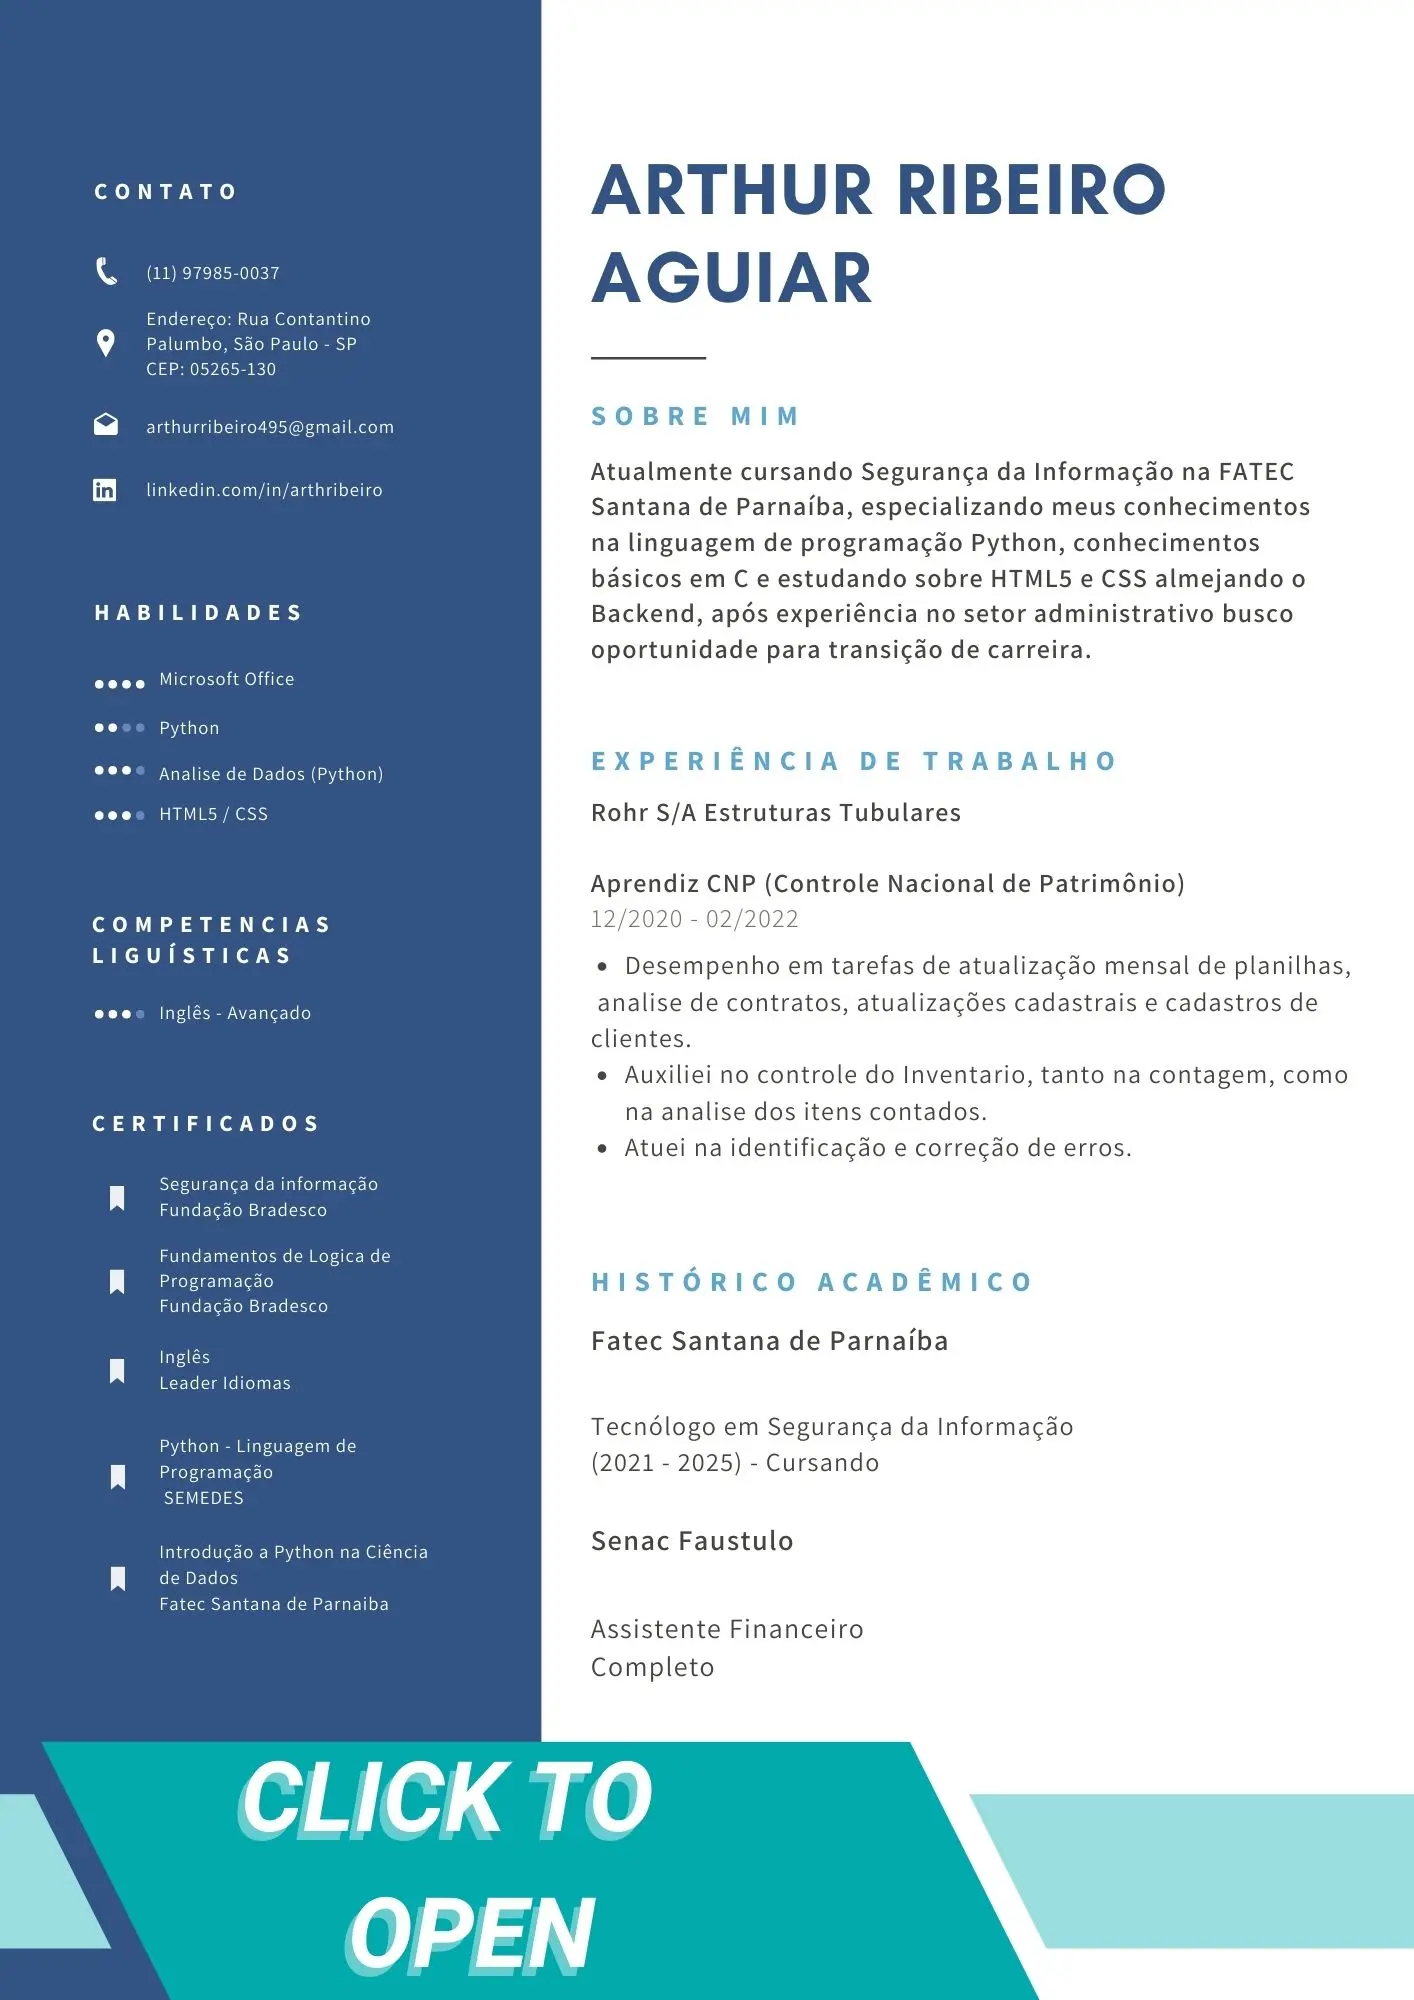
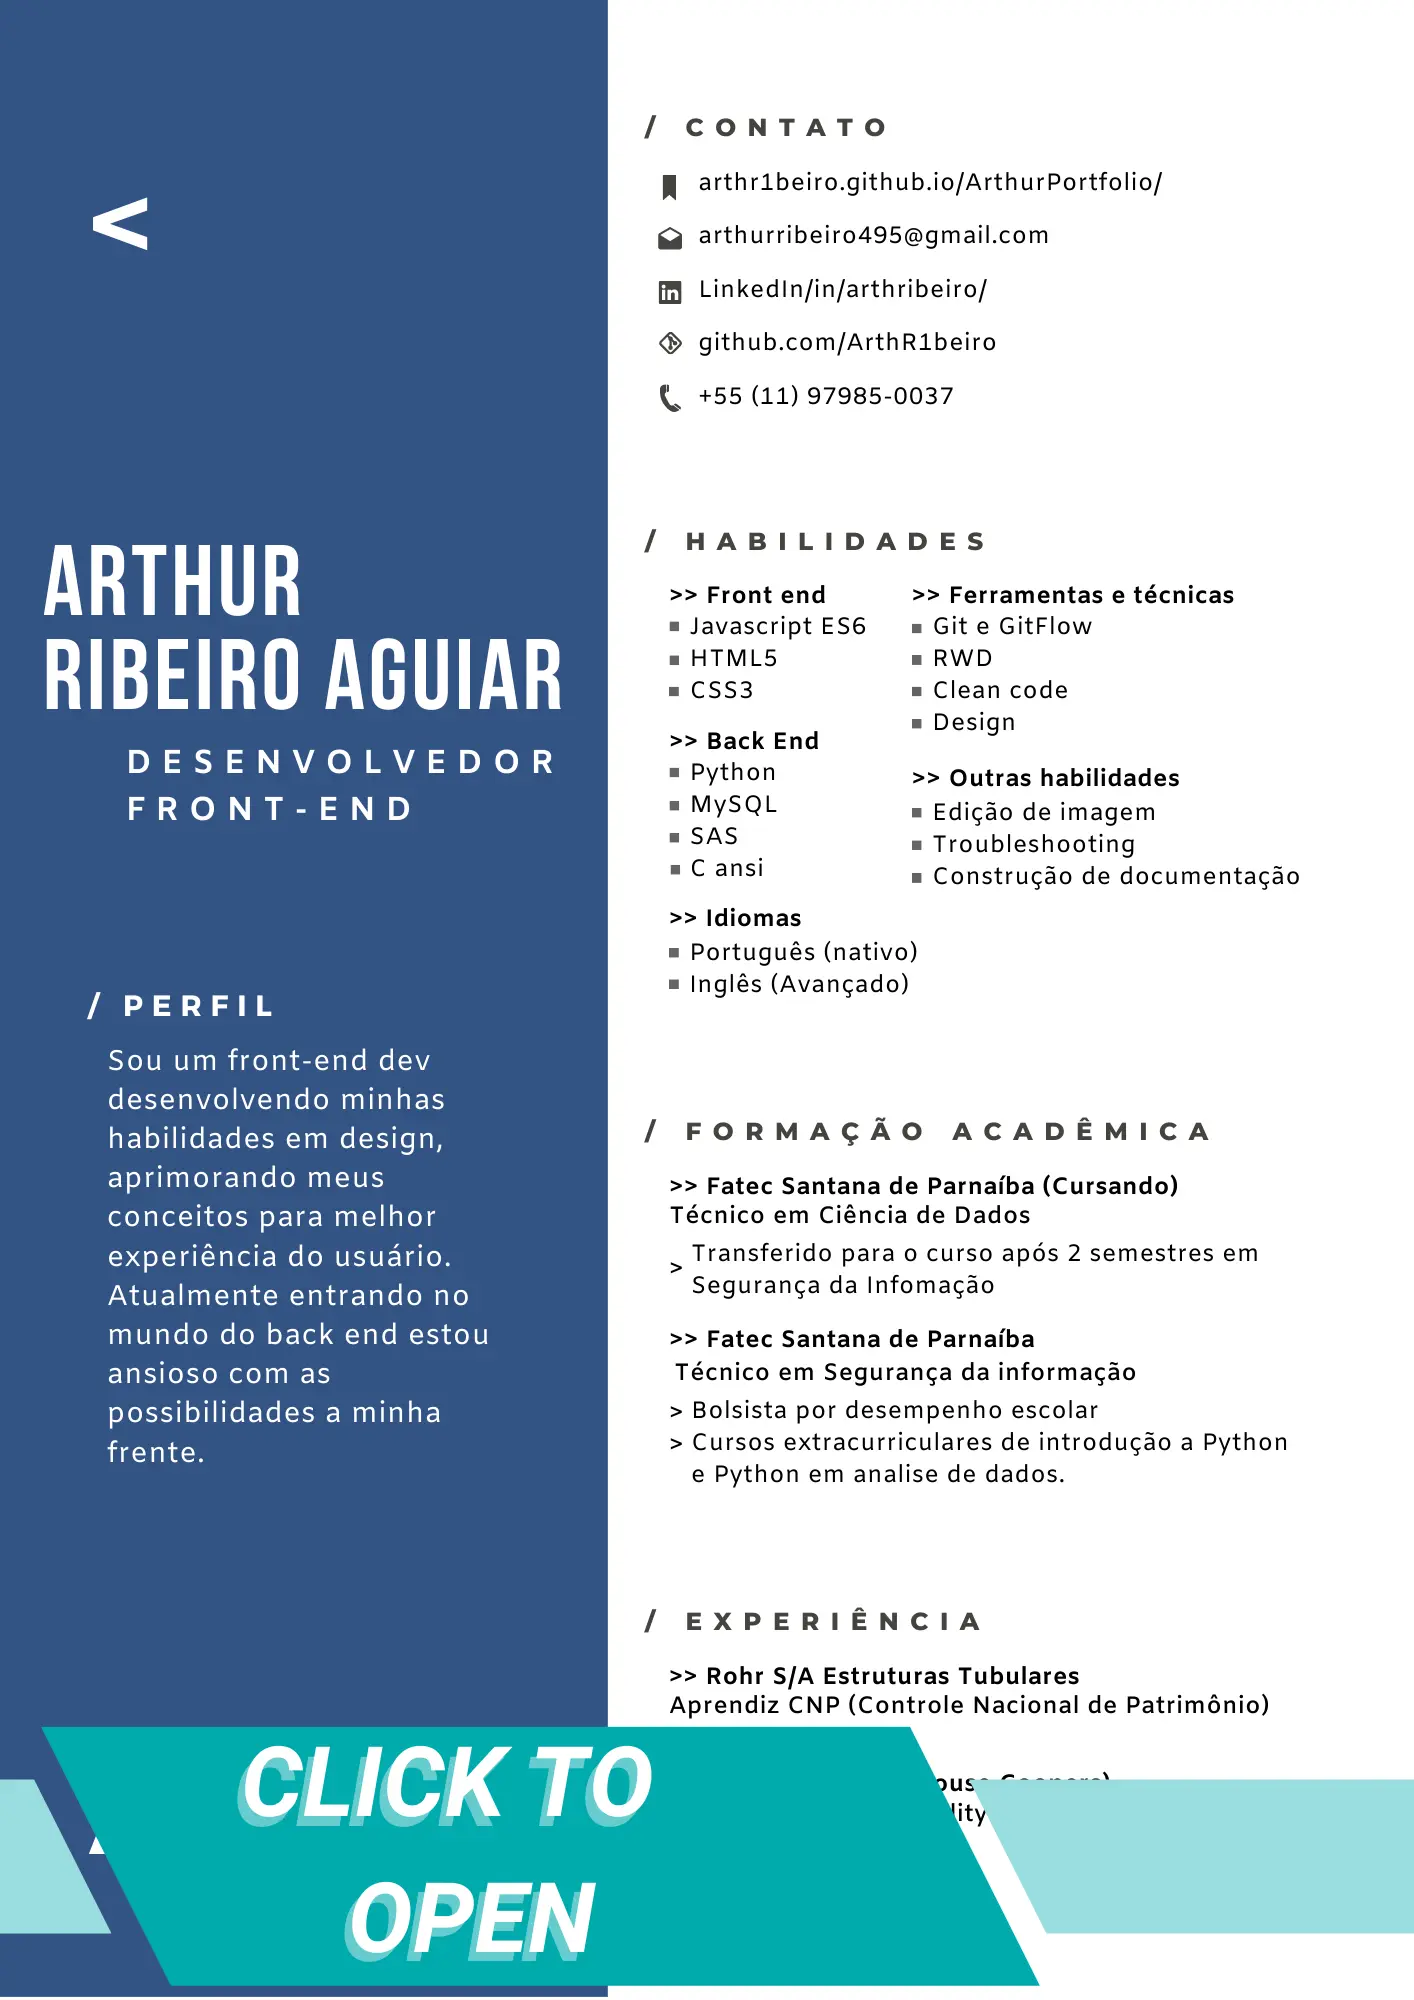
update resume

Changed region(s): [[0.0, 0.0, 1.0, 1.0], [0.8713, 0.434, 0.9024, 0.496], [0.8402, 0.496, 0.8713, 0.558]]

diff --git a/index.html b/index.html
@@ -88,10 +88,10 @@
           <div class="curriculo vidro card">
             <h1>Resume</h1>
             <a
-              href="https://drive.google.com/file/d/1dGCG81u6KTf8vjE4lzz-JCA1BbARojPh/view?usp=sharing"
+              href="https://drive.google.com/file/d/1-8PceHNs8kaB2Robj-1qX4wuB2WZUHAa/view?usp=share_link"
               target="_blank"
             >
-              <img src="imagens/curriculo.webp" alt="My resume" />
+              <img src="imagens/curriculo.png" alt="My resume" />
             </a>
 
             <button>
